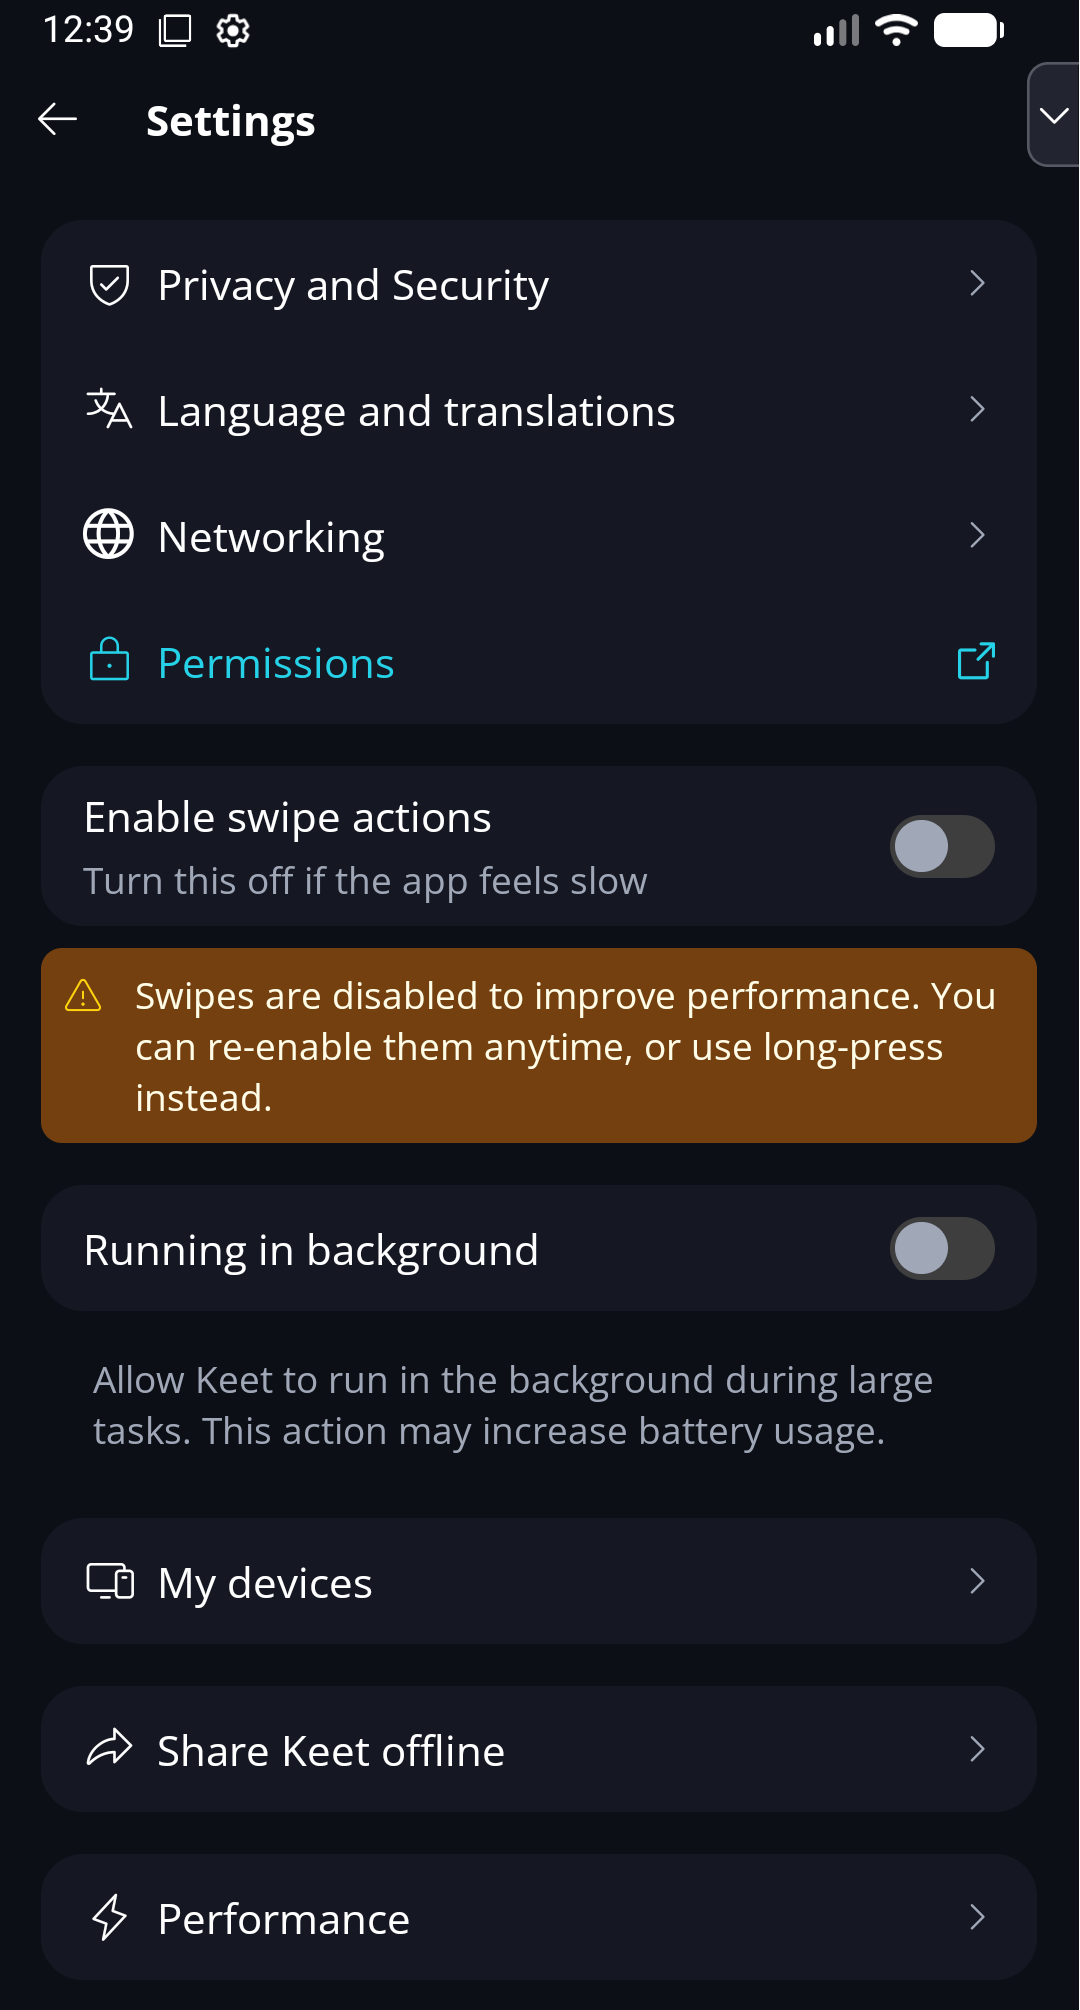
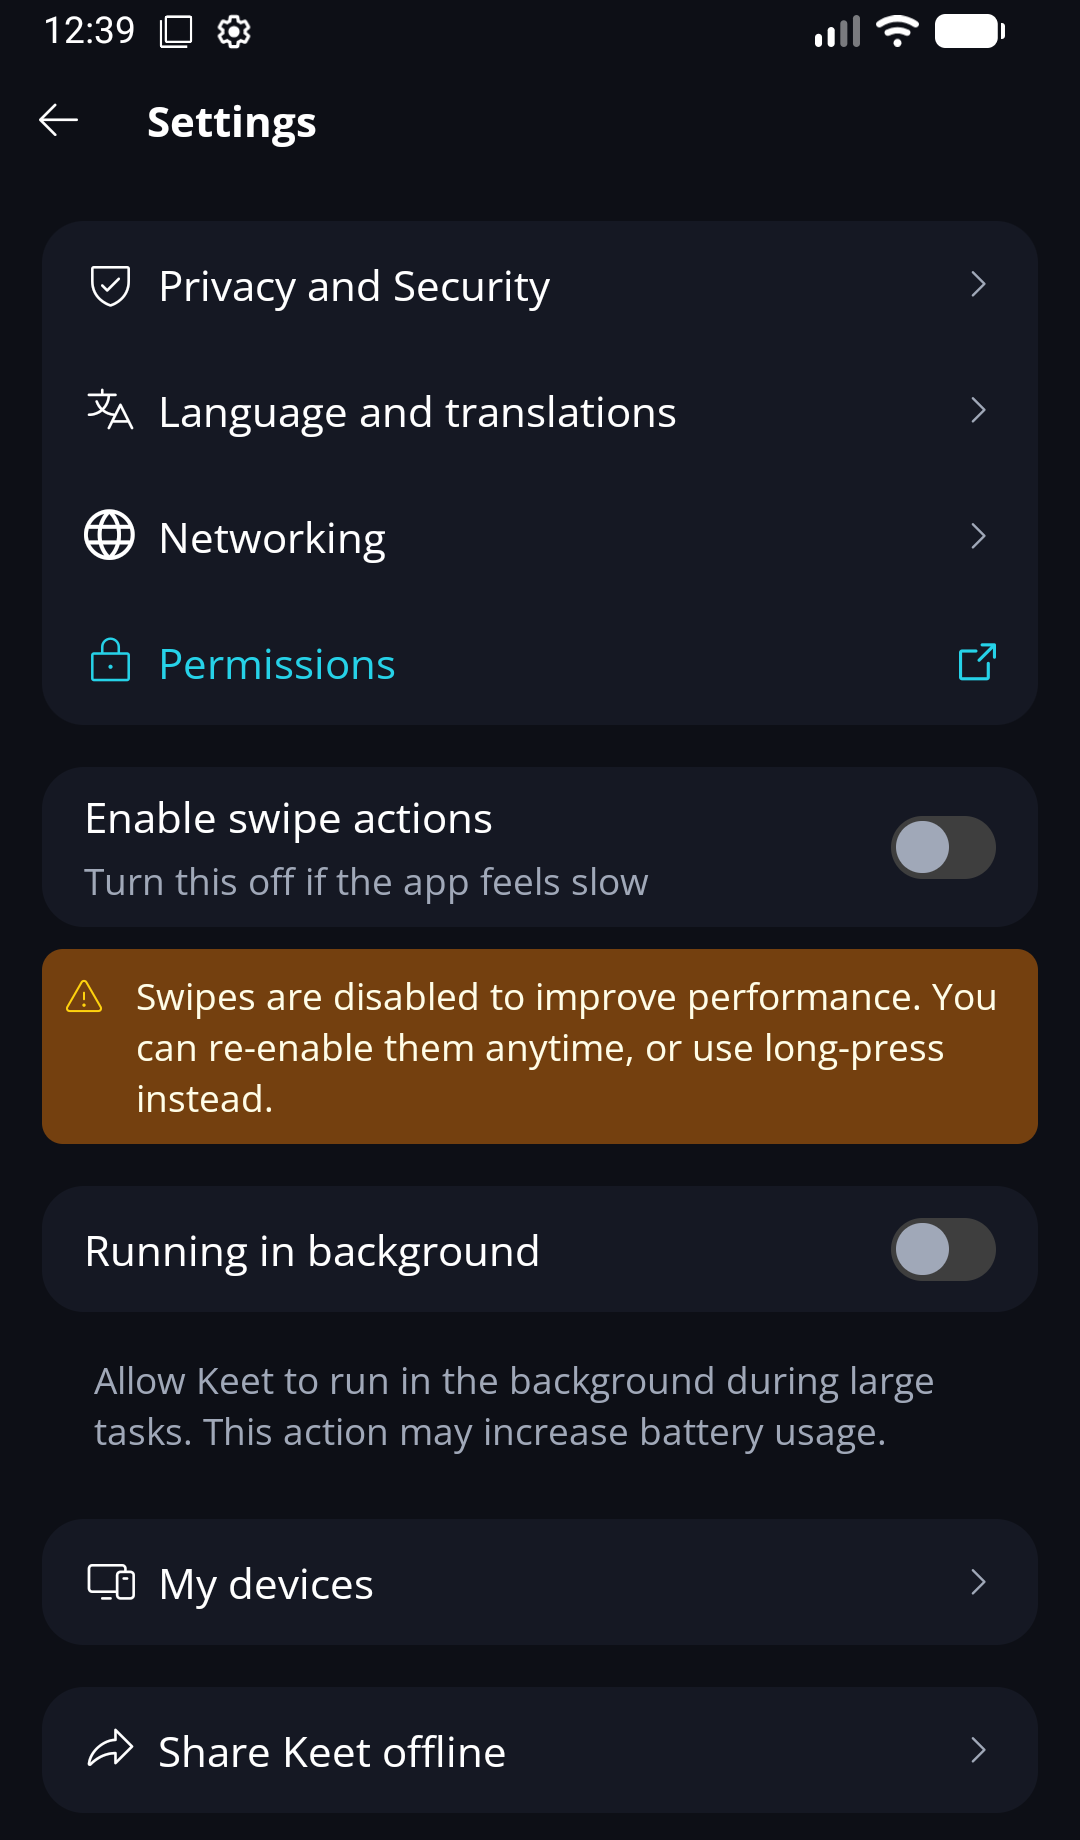
docs: remove debug overlay from Android screenshots
Paint out the internal build's stats bar tab from the Settings and Share
Keet offline screenshots, and crop the internal Performance entry from the
Settings screenshot.

diff --git a/src/lib/image-dimensions.generated.ts b/src/lib/image-dimensions.generated.ts
@@ -378,7 +378,7 @@ export const imageDimensions = {
   },
   "/images/installation-and-setup/android-apk-migration/settings-share-keet-offline.png": {
     "width": 1080,
-    "height": 2010
+    "height": 1840
   },
   "/images/installation-and-setup/android-apk-migration/share-keet-offline-copy-ready.png": {
     "width": 1080,
